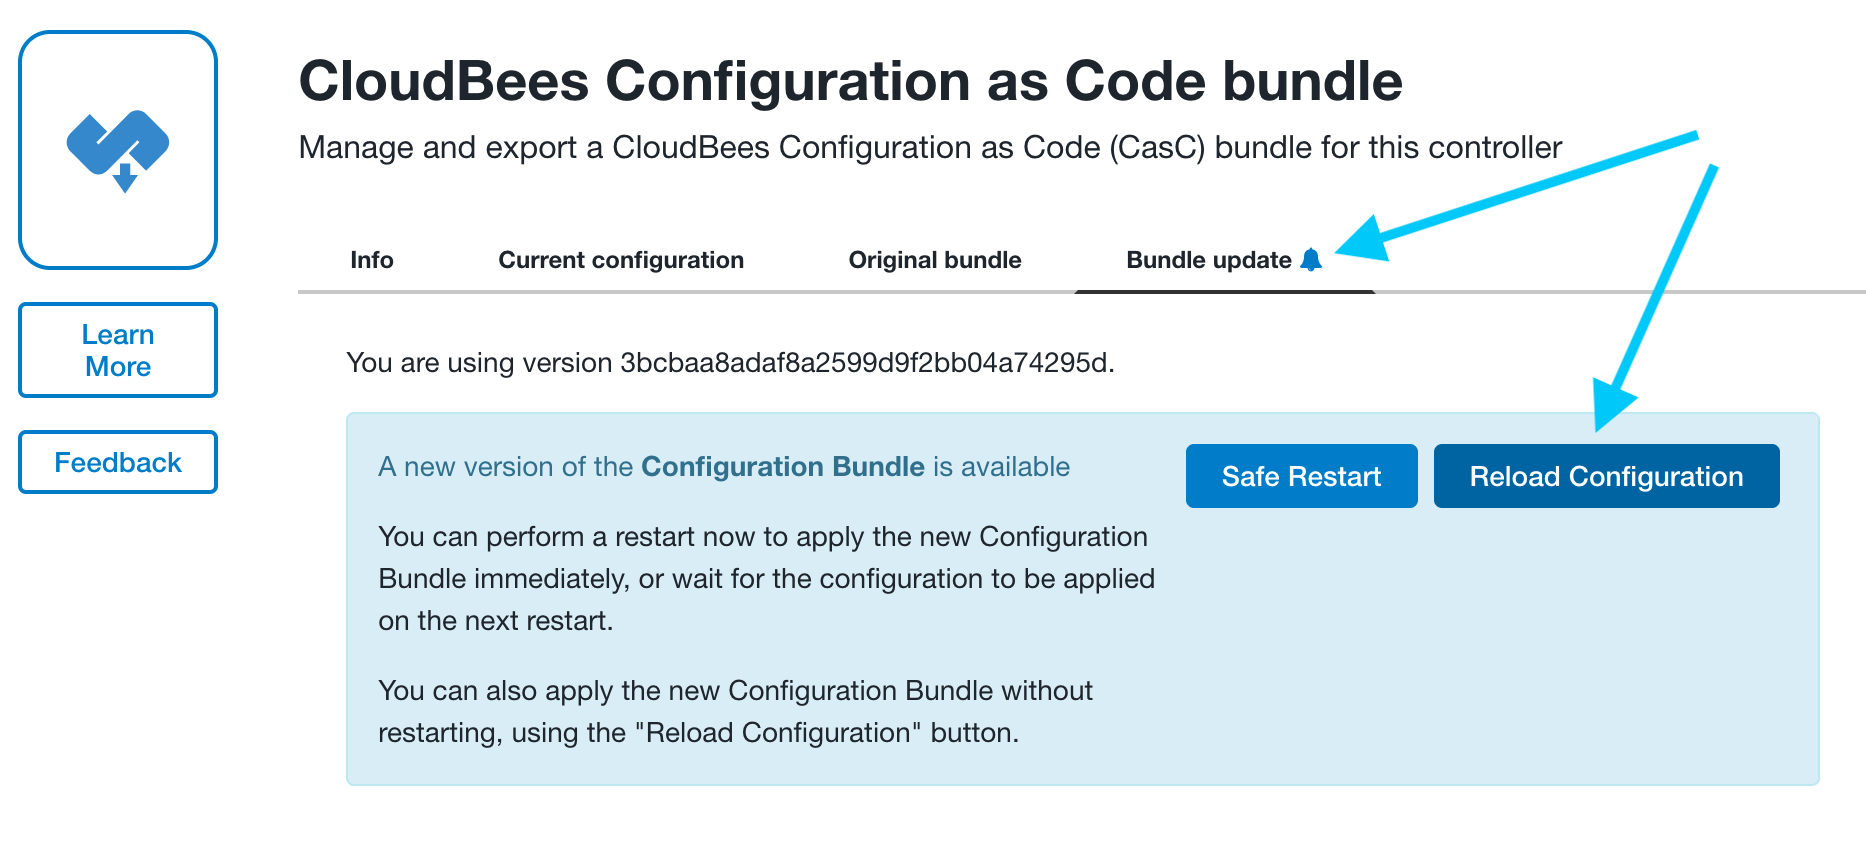
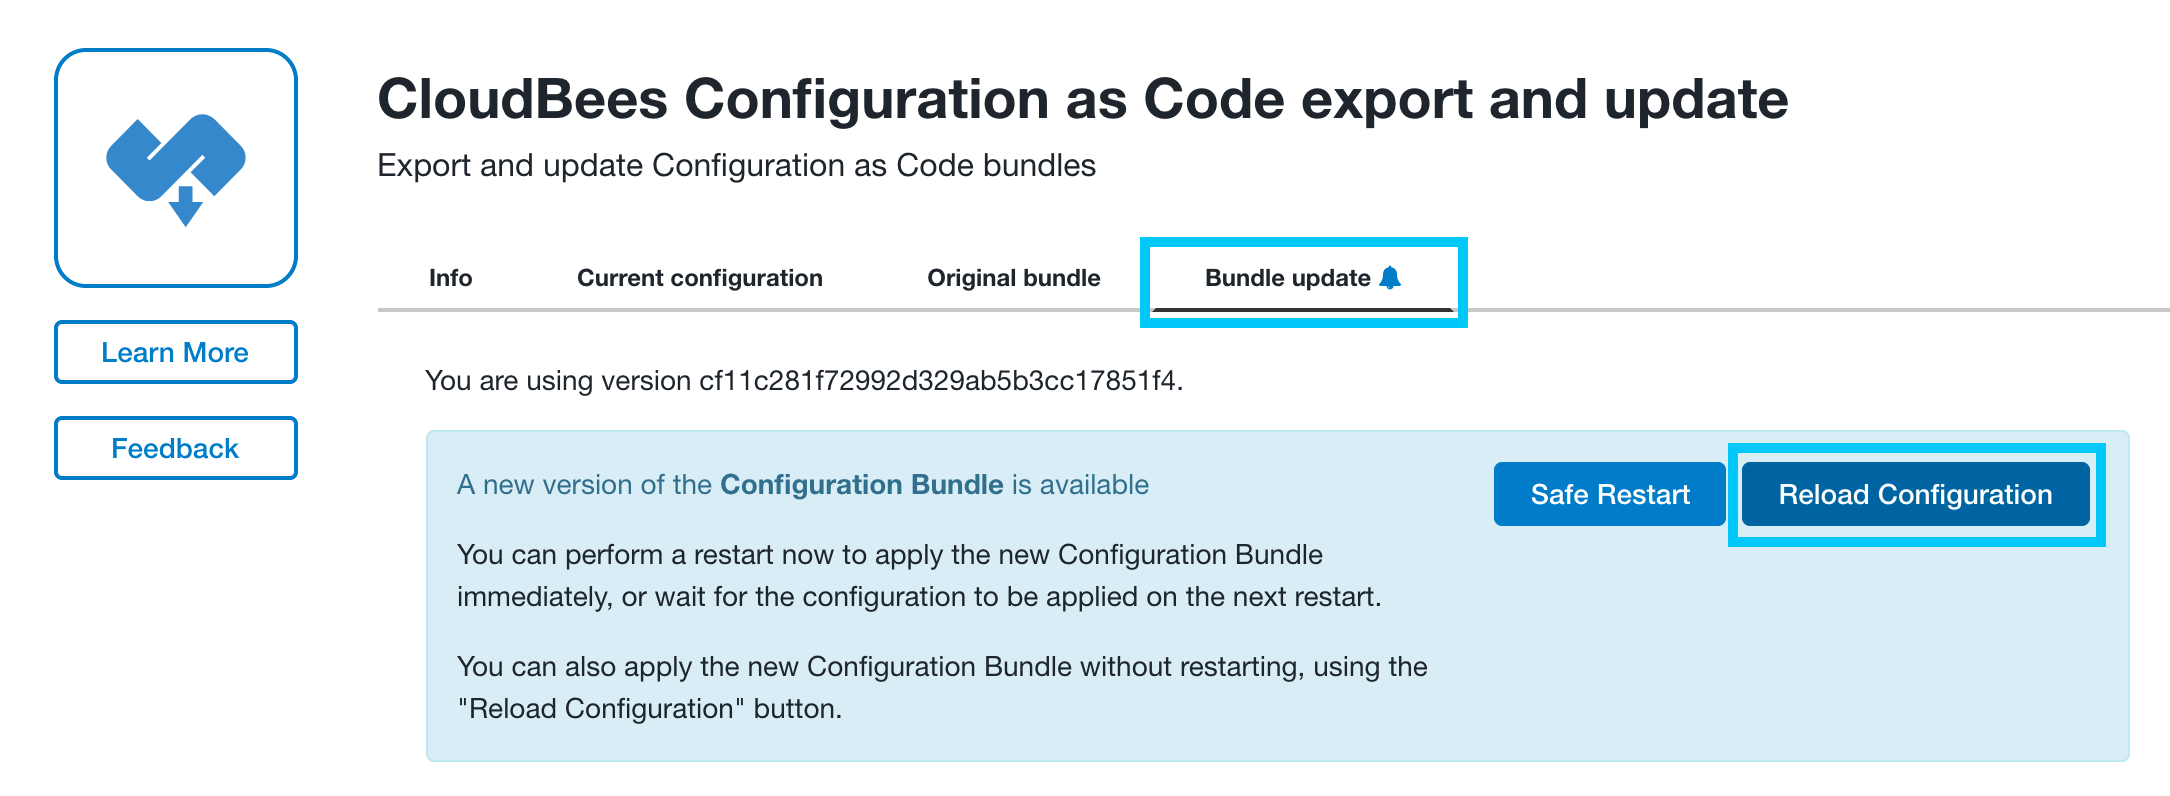
misc updates

Changed region(s): [[0.0, 0.0302, 1.0, 0.9648], [0.0, 0.392, 0.1554, 0.603]]

diff --git a/labs/cloudbees-ci-casc/content/labs/advanced-bundle-composition.md b/labs/cloudbees-ci-casc/content/labs/advanced-bundle-composition.md
@@ -8,7 +8,7 @@ This lab will explore more advanced aspects of bundle composition to include bun
 
 ## Organizing Configuration Bundles with Sub-folders and Multiple Files
 
-CloudBees CI Configuration as Code (CasC) for Controllers allows managing bundles files in folders and allows the use of multiple files for certain bundle file types. In this lab we will split your JCasC configuration into two files and put those files in a `jcasc` folder to make the configuration files easier to manage.
+CloudBees CI Configuration as Code (CasC) for Controllers allows managing bundle files in folders and allows the use of multiple files for certain bundle file types. In this lab we will split your JCasC configuration (the `jenkins.yaml` file) into two files and put those files in a `jcasc` folder to make the configuration files easier to manage.
 
 1. Navigate back to the top level of your `ops-controller` repository in your workshop GitHub Organization, then click on the **Add file** button and then select **Create new file**. ![Create new file in GitHub](github-create-new-file.png?width=50pc)
 ```yaml
@@ -93,10 +93,10 @@ items:
 13. We have now made all the necessary changes and can now merge the pull request to the `main` branch. In GitHub, click on the **Pull requests** tab and then click on the link for the **Create credentials.yaml** pull request. ![jcasc pull request link](github-jcasc-pr-link.png?width=50pc)
 14. On the **Create credentials.yaml #1** pull request page, click the **Merge pull request** button, then click the **Confirm merge** button and then click the **Delete branch** button.
 15. Navigate to the `main` branch job of the `ops-controller` Multibranch pipeline project on your Ops controller. ![ops-controller Mulitbranch](ops-controller-multibranch-jcasc.png?width=50pc)
-16. After the the `main` branch job has completed successfully, navigate to the top level of your Ops controller, click on the **Manage Jenkins** link in the left menu, and then click on the **CloudBees Configuration as Code bundle** **System Configuration** item. ![CasC Configuration link](casc-config-link.png?width=50pc) 
-17. On the **CloudBees Configuration as Code bundle** click on the **Bundle update** tab and you should see that there is a bundle update available. ![CasC bundle update](casc-bundle-update.png?width=50pc)
+16. After the the `main` branch job has completed successfully, navigate to the top level of your Ops controller, click on the **Manage Jenkins** link in the left menu, and then click on the **CloudBees Configuration as Code export and update** **System Configuration** item. ![CasC Configuration link](cloudbees-casc-link.png?width=50pc) 
+17. On the **CloudBees Configuration as Code export and update** click on the **Bundle update** tab and you should see that there is a bundle update available. ![CasC bundle update](casc-bundle-update.png?width=50pc)
 18. Click on the **Reload Configuration** button and then on the next screen click the **Yes** button to apply the bundle update. ![CasC bundle apply](casc-bundle-apply.png?width=50pc)
-19. After the updated configuration bundle is finished being applied return to the **CloudBees Configuration as Code bundle** configuration page and click on the **Original Bundle** tab. ![Original bundle with folder](original-bundle-folder.png?width=50pc)
+19. After the updated configuration bundle is finished being applied return to the **CloudBees Configuration as Code export and update** configuration page and click on the **Original Bundle** tab. ![Original bundle with folder](original-bundle-folder.png?width=50pc)
 20. The **Original Bundle** view will show you what configuration is being managed by the configuration bundle assigned to your controller. Notice that there are now two *Jenkins configuration as defined by OSS CasC* files - `jcasc/cbci-casc-workshop-ops-controller.credentials.yaml` and `jcasc/cbci-casc-workshop-ops-controller.jenkins.yaml`; and both prefixed with the `id` of your bundle. This is done to support bundle inheritance as we will see in the next section.
 
 ## Bundle Inheritance
@@ -188,7 +188,6 @@ plugins:
 - id: cloudbees-groovy-view
 - id: cloudbees-monitoring
 - id: cloudbees-pipeline-policies
-- id: cloudbees-prometheus
 - id: cloudbees-slack
 - id: cloudbees-template
 - id: cloudbees-view-creation-filter
@@ -217,10 +216,9 @@ version: '1'
 configurations:
 - description: Workshop Additional Plugins
   includePlugins:
-    cloudbees-prometheus: {version: '1.0'}
-    pipeline-utility-steps: {version: '2.8.0'}
+    pipeline-utility-steps: {version: '2.10.0'}
 ```
-6. Now that we have reviewed the contents of the `base` bundle we will update your Ops controller bundle to use it as a parent bundle. However, before we do that it is important to understand how JCasC files are processed. All JCasC configuration **MUST** be supplementary, meaning that a child bundle cannot overwrite any of the parent configuration values. Otherwise there will be a `ConfiguratorException` and the controller will not startup. Therefore, before we update the `ops-controller` configuration bundle we must ensure that it does not overwrite any of the parent bundle’s configuration elements. Navigate to the `ops-controller` repository in your workshop GitHub Organization. Anything that may need to be unique between different controllers should be configured at the controller level; at least until other [JCasC YAML merge strategies become available](https://github.com/jenkinsci/configuration-as-code-plugin/pull/1218).
+6. Now that we have reviewed the contents of the `base` bundle we will update your Ops controller bundle to use it as a parent bundle. However, before we do that, it is important to understand how JCasC files are processed. All JCasC configuration **MUST** be supplementary, meaning that a child bundle cannot overwrite any of the parent configuration values. Otherwise there will be a `ConfiguratorException` and the controller will not startup. Therefore, before we update the `ops-controller` configuration bundle we must ensure that it does not overwrite any of the parent bundle’s configuration elements. Navigate to the `ops-controller` repository in your workshop GitHub Organization. Anything that may need to be unique between different controllers should be configured at the controller level; at least until other [JCasC YAML merge strategies become available](https://github.com/jenkinsci/configuration-as-code-plugin/pull/1218).
 7. Navigate to the `jcasc` folder of your copy of the `ops-controller` repository and click on the `jenkins.yaml` file and then click on the ***Edit this file*** pencil button.
 8. Now we will delete all the configuration that will be provided by the parent bundle:
    - Delete the `quietPeriod` and the `systemMessage` sections under `jenkins`.

diff --git a/labs/cloudbees-ci-casc/content/labs/bundle-composition.md b/labs/cloudbees-ci-casc/content/labs/bundle-composition.md
@@ -139,7 +139,7 @@ As you can see from the composition overview above, the YAML in the different co
 2. At the top level of your Ops controller, click on the **Mange Jenkins** link in the left menu. ![Manage Jenkins link](manage-jenkins-link.png?width=50pc) 
 3. On the **Manage Jenkins** page click on **Manage Plugins** under the **System Configuration** section. ![Manage Plugins link](manage-plugins-link.png?width=50pc) 
 4. On the **Plugin Manager** screen, click on the **Available** tab and enter ***Pipeline Util*** into the search box. Then check the **Install** checkbox for the **Pipeline Utility Steps** plugin and then click the the **Install without restart** button. ![Search for Pipeline Util](search-pipeline-util.png?width=50pc) 
-5. Once the **Pipeline Utility Steps** plugin is successfully installed return to the top-level of your Ops controller and click on the **Mange Jenkins** link in the left menu. ![Install plugin](install-plugin.png?width=50pc) 
+5. Once the **Pipeline Utility Steps** plugin is successfully installed, return to the top-level of your Ops controller and click on the **Mange Jenkins** link in the left menu. ![Install plugin](install-plugin.png?width=50pc) 
 6. On the **Manage Jenkins** page click on **CloudBees Configuration as Code export and update** under the **System Configuration** section. ![CloudBees CasC link](cloudbees-casc-link.png?width=50pc) 
 7. Next, on the **CloudBees Configuration as Code export and update** page under the **Current configuration** tab, click on the *visualize* link for the `plugin-catalog.yaml` **Filename**. A [plugin catalog](https://docs.cloudbees.com/docs/admin-resources/latest/plugin-management/configuring-plugin-catalogs) is used to include plugins that are not in the CloudBees Assurance Program (CAP); tested and used by your software delivery workloads. Since the **Pipeline Utility Steps** is not in CAP we must create a plugin catalog that includes that plugin so we may install it on a controller. ![Plugin Catalog visualize link](plugin-catalog-visualize-link.png?width=50pc) 
 8. A new browser page will open in a new tab or window with the auto-generated contents of a Plugin Catalog with the following contents (except the export does not put single quotes around the plugin version as we see below, this is needed to keep the `.0` from being stripped off):
@@ -155,10 +155,10 @@ configurations:
 ```
 
 {{% notice info %}}
-There will be continued improvements for configuration export but exported configuration should never be use as is without manually checking it. 
+There will be continued improvements for configuration export but exported configuration should never be use as is without manually checking it. In regards to the issue with the version number, the YAML parser will strip off the zero, resulting in a version number of `2.10` which does not exist for that plugin.
 {{% /notice %}}
 
-9. Copy the contents of the `plugin-catalog.yaml` withe the `version` fix from above and then navigate to the `ops-controller` repository in your workshop GitHub Organization.
+9. Copy the contents of the `plugin-catalog.yaml` with the `version` fix from above and then navigate to the `ops-controller` repository in your workshop GitHub Organization.
 10. Next click on the **Add file** button and then select **Create new file**. ![Create new file in GitHub](github-create-new-file.png?width=50pc)
 11. On the next screen, name the new file `plugin-catalog.yaml`, enter the contents from the `plugin-catalog.yaml` export but **make sure your put single quotes around the plugin version**. Then commit directly to the `main` branch. ![Commit plugin-catalog.yaml](commit-plugin-catalog.png?width=50pc)
 12. Plugins in the `plugin-catalog.yaml` are not actually installed on a controller, rather they just extend what can be installed outside of CAP. In order for a plugin to be installed via a configuration bundle you must add it to the `plugins.yaml`. Click on the `plugins.yaml` file and then click on the ***Edit this file*** pencil button. ![Edit plugins file GitHub](github-edit-plugins-file.png?width=50pc)
@@ -206,7 +206,7 @@ plugins:
 21. On the next screen, name the new file `items.yaml`, paste the contents from the `items.yaml` export (same as above).
 
 {{% notice note %}}
-There is an open issue in regards to the GitHub Organization item type.
+There is an [open issue](https://github.com/jenkinsci/branch-api-plugin/pull/271) in regards to the GitHub Organization item type and item restrictions. A temporary fix is to manually add `jenkins.branch.OrganizationFolder` to the `allowedTypes` collection as below.
 ```yaml
 removeStrategy:
   rbac: SYNC
@@ -258,7 +258,7 @@ items:
 {{% /expand%}}
 
 {{% notice note %}}
-In previous versions of CloudBees CI Configuration as Code (CasC) for Controllers the `version` field of the `bundle.yaml` file had to be modified in order for an update to be triggered for controllers using that bundle. This is no longer required as any change in any file in a bundle will trigger a bundle update for any controllers using the updated bundle. However, it is still considered a best practice to increment the bundle version.
+In previous versions of CloudBees CI Configuration as Code (CasC) for Controllers the `version` field of the `bundle.yaml` file had to be modified in order for an update to be triggered for controllers using that bundle. This is no longer required as any change in any file in a bundle will trigger a bundle update for any controllers using the updated bundle once those changes are copied to the JCasC bundle directory on Operations Center. However, it is still considered a best practice to increment the bundle version.
 {{% /notice %}}
 
 25. Commit the `bundle.yaml` file directly to the `main` branch of your `ops-controller` repository. ![Commit bundle.yaml](commit-bundle.png?width=50pc)

diff --git a/labs/cloudbees-ci-casc/content/labs/bundle-management.md b/labs/cloudbees-ci-casc/content/labs/bundle-management.md
@@ -34,7 +34,7 @@ This lab will provide an overview of how configuration bundles are managed via t
 
 ## GitOps for CloudBees CI Configuration Bundles
 
-In this lab we will create a Jenkins Pipeline to automatically update our controllers' configuration bundles whenever any changes are committed to the GitHub branch for the controller's configuration bundle. We will actually be creating a [GitHub Organization Folder project](https://www.jenkins.io/doc/book/pipeline/multibranch/#organization-folders) with a [custom marker file](https://docs.cloudbees.com/docs/admin-resources/latest/pipelines/pipeline-as-code#custom-pac-scripts). Instead of using the typical `Jenkinsfile` we will use `bundle.yaml` as our custom marker file. By using the custom marker file with a GitHub Organization Folder project a Multibranch Pipeline project will automatically be created for all repositories in your workshop GitHub Organization when they have at least one branch containing a `bundle.yaml` file.
+In this lab we will create a Jenkins Pipeline to automatically update our controllers' configuration bundles whenever any changes are committed to the GitHub branch for the controller's configuration bundle. We will actually be creating a [GitHub Organization Folder project](https://www.jenkins.io/doc/book/pipeline/multibranch/#organization-folders) with a [custom marker file](https://docs.cloudbees.com/docs/admin-resources/latest/pipelines/pipeline-as-code#custom-pac-scripts). Instead of using the typical `Jenkinsfile` we will use `bundle.yaml` as our custom marker file. By using the custom marker file with a GitHub Organization Folder project, a Multibranch Pipeline project will automatically be created for all repositories in your workshop GitHub Organization when they have at least one branch containing a `bundle.yaml` file.
  
 1. Navigate to the `ops-controller` repository in your workshop GitHub Organization.
 2. Next click on the **Add file** button and then select **Create new file**. ![Create new file in GitHub](github-create-new-file.png?width=50pc)
@@ -82,8 +82,8 @@ pipeline {
 14. Once the GitHub Organization scan is complete click on the the **Status** link in the left menu and you will see a Multibranch pipeline project for your `ops-controller` repository. ![Ops controller Multibranch pipeline](ops-controller-multibranch-job.png?width=50pc)
 15. Click on the `ops-controller` Multibranch pipeline project and then click on the pipeline job for the `main` branch of your `ops-controller` repository. ![Ops controller job](ops-controller-job.png?width=50pc)
 16. On the **Branch main** screen wait for the job to complete. ![Ops controller main branch job](ops-controller-main-branch-job.png?width=50pc)
-17. After the job has completed successfully, navigate to the top level of your Ops controller, click on the **Manage Jenkins** link in the left menu, and then click on the **CloudBees Configuration as Code bundle** **System Configuration** item. ![CasC Configuration link](casc-config-link.png?width=50pc)
-18. On the **CloudBees Configuration as Code bundle** click on the **Bundle update** tab and you should see that there is a bundle update available. ![CasC bundle update](casc-bundle-update.png?width=50pc)
+17. After the job has completed successfully, navigate to the top level of your Ops controller, click on the **Manage Jenkins** link in the left menu, and then click on the **CloudBees Configuration as Code export and update** **System Configuration** item. ![CasC Configuration link](casc-config-link.png?width=50pc)
+18. On the **CloudBees Configuration as Code bundle** click on the **Bundle update** tab and you should see that there is a bundle update available. ![CasC bundle update](cloudbees-casc-link.png?width=50pc)
 19. Click on the **Reload Configuration** button and then on the next screen click the **Yes** button to apply the bundle update. ![CasC bundle apply](casc-bundle-apply.png?width=50pc)
 20. After the updated configuration bundle is finished being applied return to the top level of your Ops controller and you will see that the **controller-jobs** folder has been added back. ![CasC bundle updated](casc-bundle-updated.png?width=50pc)
 21. Besides being an example of configuration bundle `items` configuration, another reason we created a folder is because it is considered a best practice to keep all of your Jenkins jobs organized with folders - some of the advantages of folders include fine grained access control and credentials, folder specific environment variables, the ability to restrict job types that can be create and easily moving or copying jobs across controllers. Therefore we will move your GitHub Organization project into the **controller-jobs** folder. To do so click on your GitHub Organization project and then click the **Move/Copy/Promote** link in the left menu. ![Move multibranch job](move-github-org-job.png?width=50pc)
